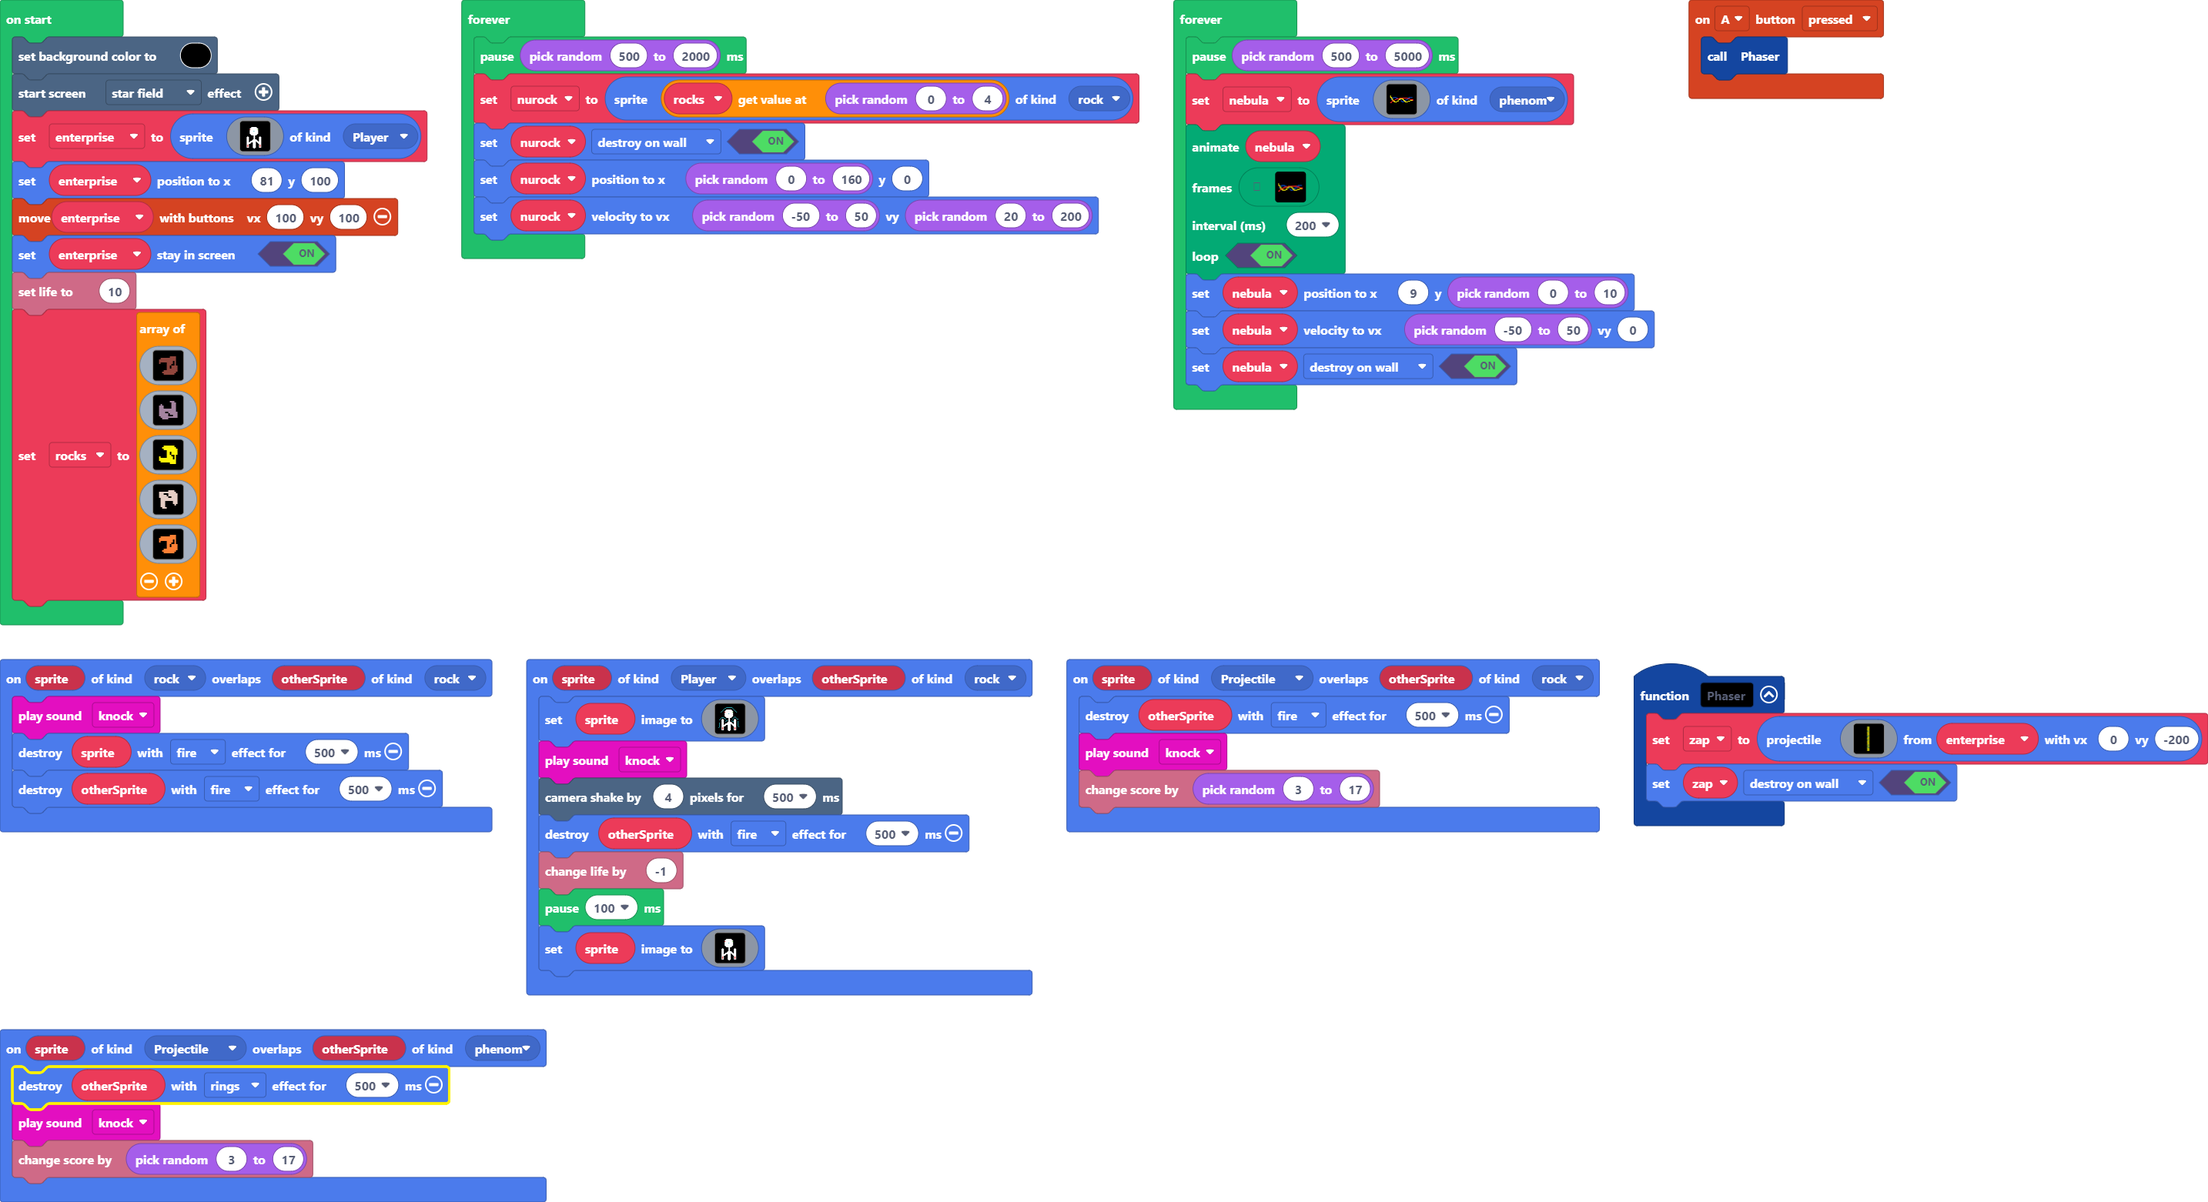
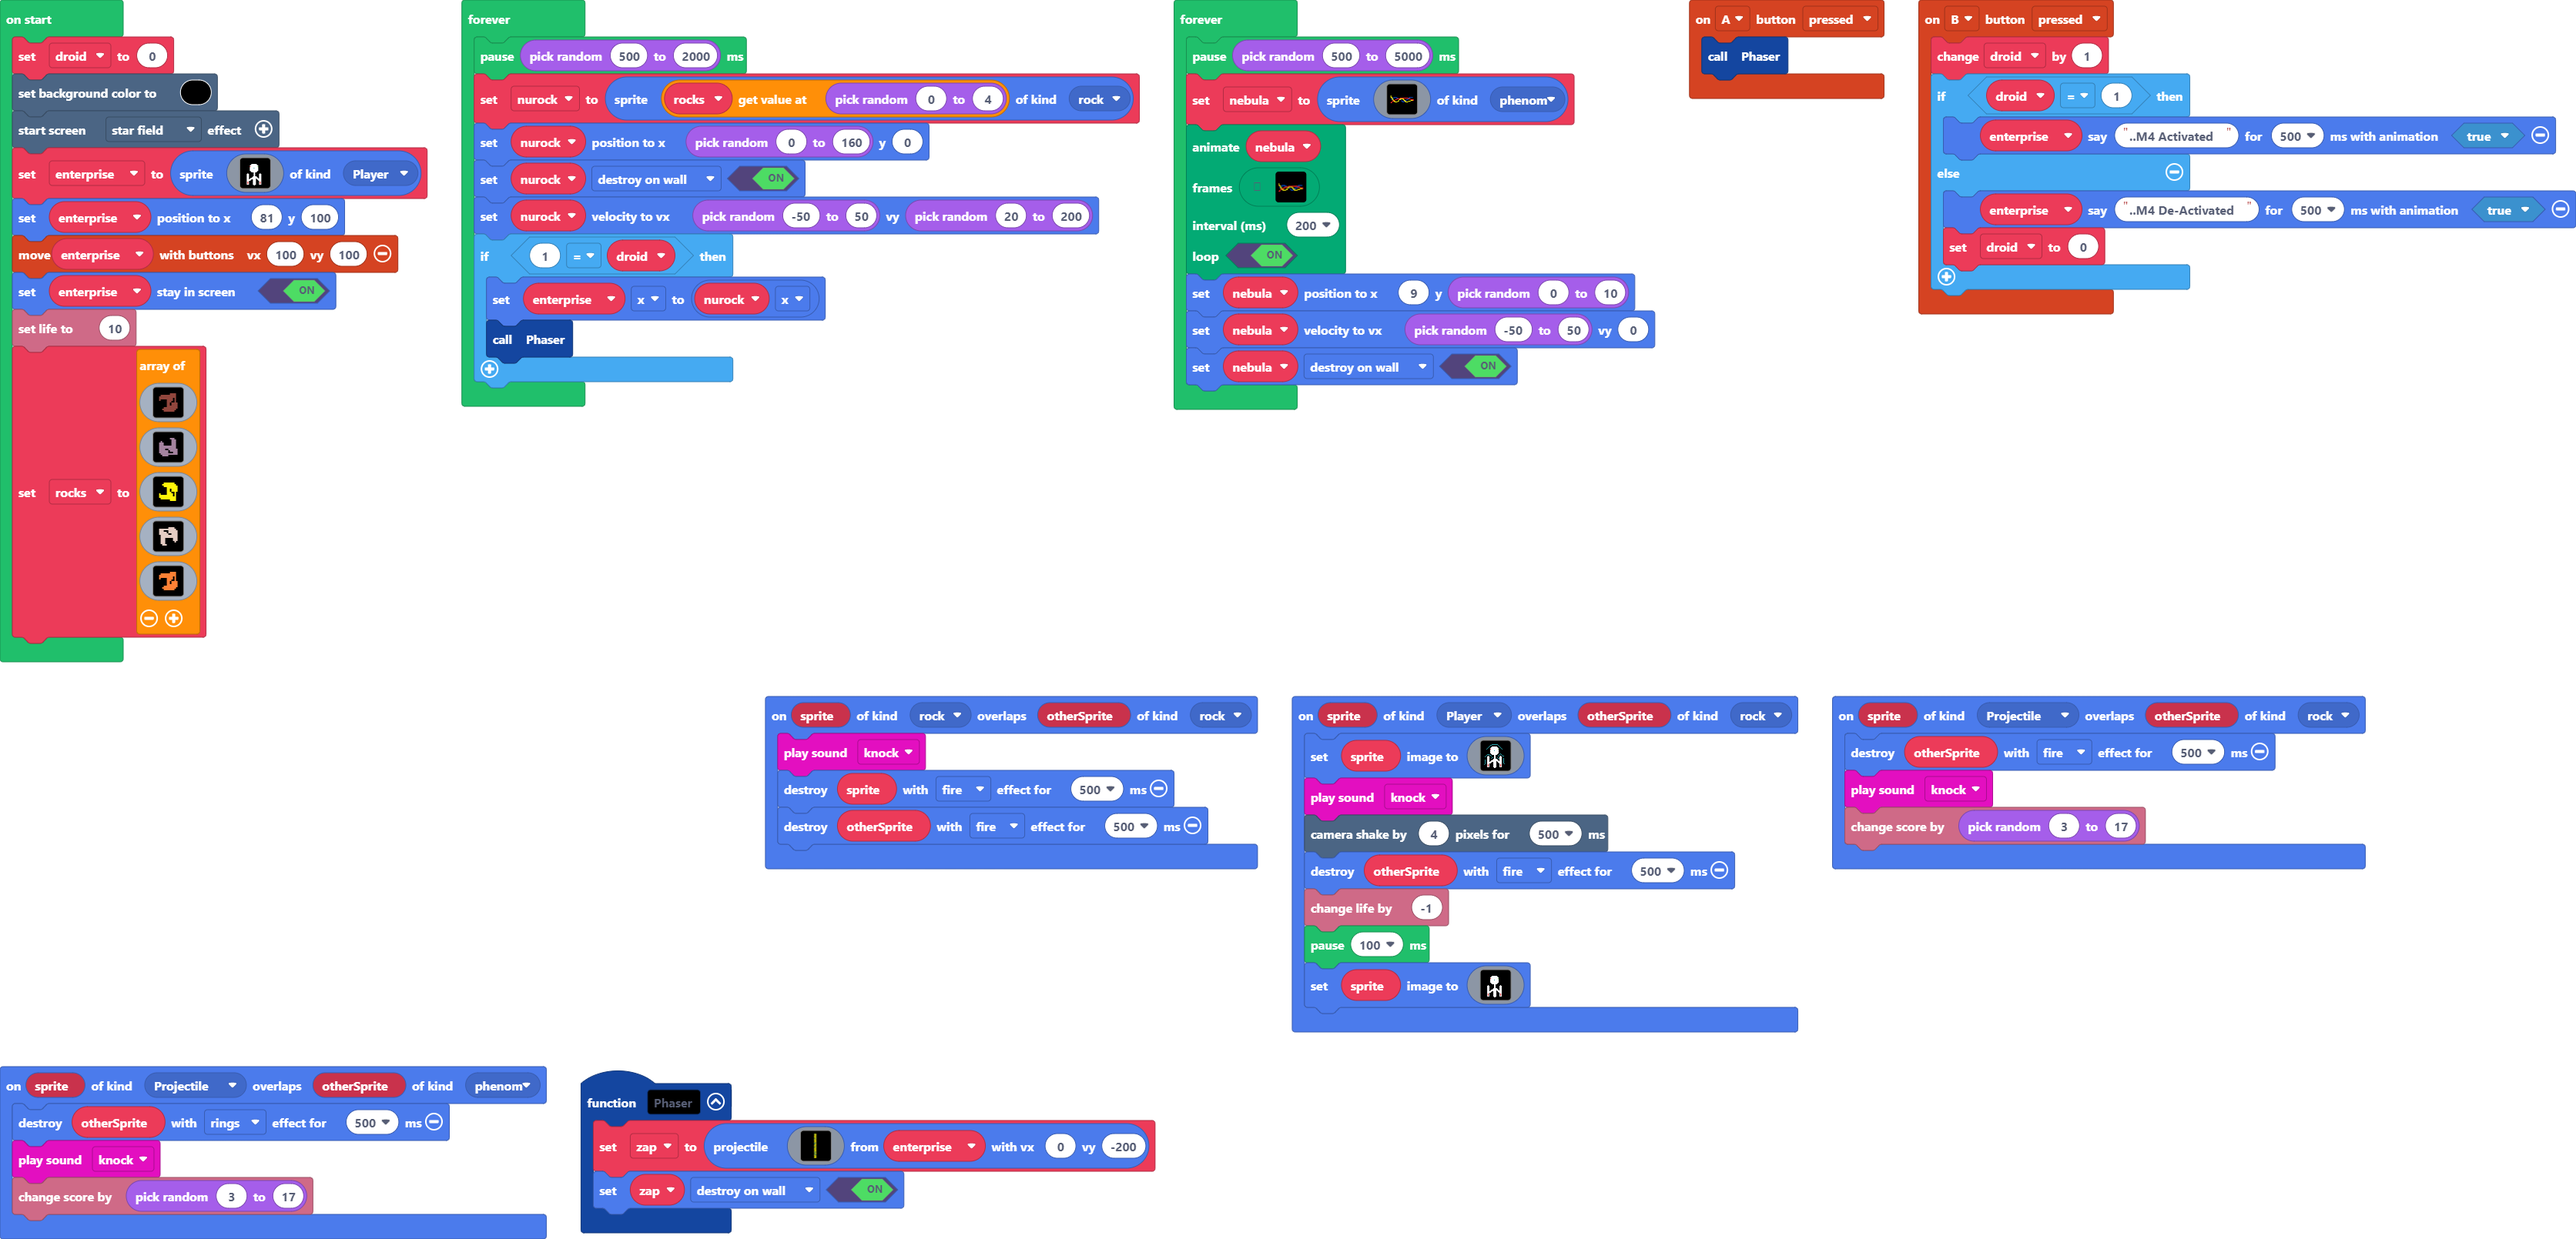
Update main.blocks, main.ts

diff --git a/main.ts b/main.ts
@@ -2,6 +2,15 @@ namespace SpriteKind {
     export const rock = SpriteKind.create()
     export const phenom = SpriteKind.create()
 }
+controller.B.onEvent(ControllerButtonEvent.Pressed, function () {
+    droid += 1
+    if (droid == 1) {
+        enterprise.sayText("..M4 Activated", 500, true)
+    } else {
+        enterprise.sayText("..M4 De-Activated", 500, true)
+        droid = 0
+    }
+})
 sprites.onOverlap(SpriteKind.rock, SpriteKind.rock, function (sprite, otherSprite) {
     music.knock.play()
     sprite.destroy(effects.fire, 500)
@@ -37,6 +46,8 @@ let nebula: Sprite = null
 let nurock: Sprite = null
 let zap: Sprite = null
 let enterprise: Sprite = null
+let droid = 0
+droid = 0
 scene.setBackgroundColor(15)
 effects.starField.startScreenEffect()
 enterprise = sprites.create(assets.image`EnterpriseShip`, SpriteKind.Player)
@@ -54,9 +65,13 @@ assets.image`Asteroid3`
 forever(function () {
     pause(randint(500, 2000))
     nurock = sprites.create(rocks[randint(0, 4)], SpriteKind.rock)
-    nurock.setFlag(SpriteFlag.DestroyOnWall, true)
     nurock.setPosition(randint(0, 160), 0)
+    nurock.setFlag(SpriteFlag.DestroyOnWall, true)
     nurock.setVelocity(randint(-50, 50), randint(20, 200))
+    if (1 == droid) {
+        enterprise.x = nurock.x
+        Phaser()
+    }
 })
 forever(function () {
     pause(randint(500, 5000))
